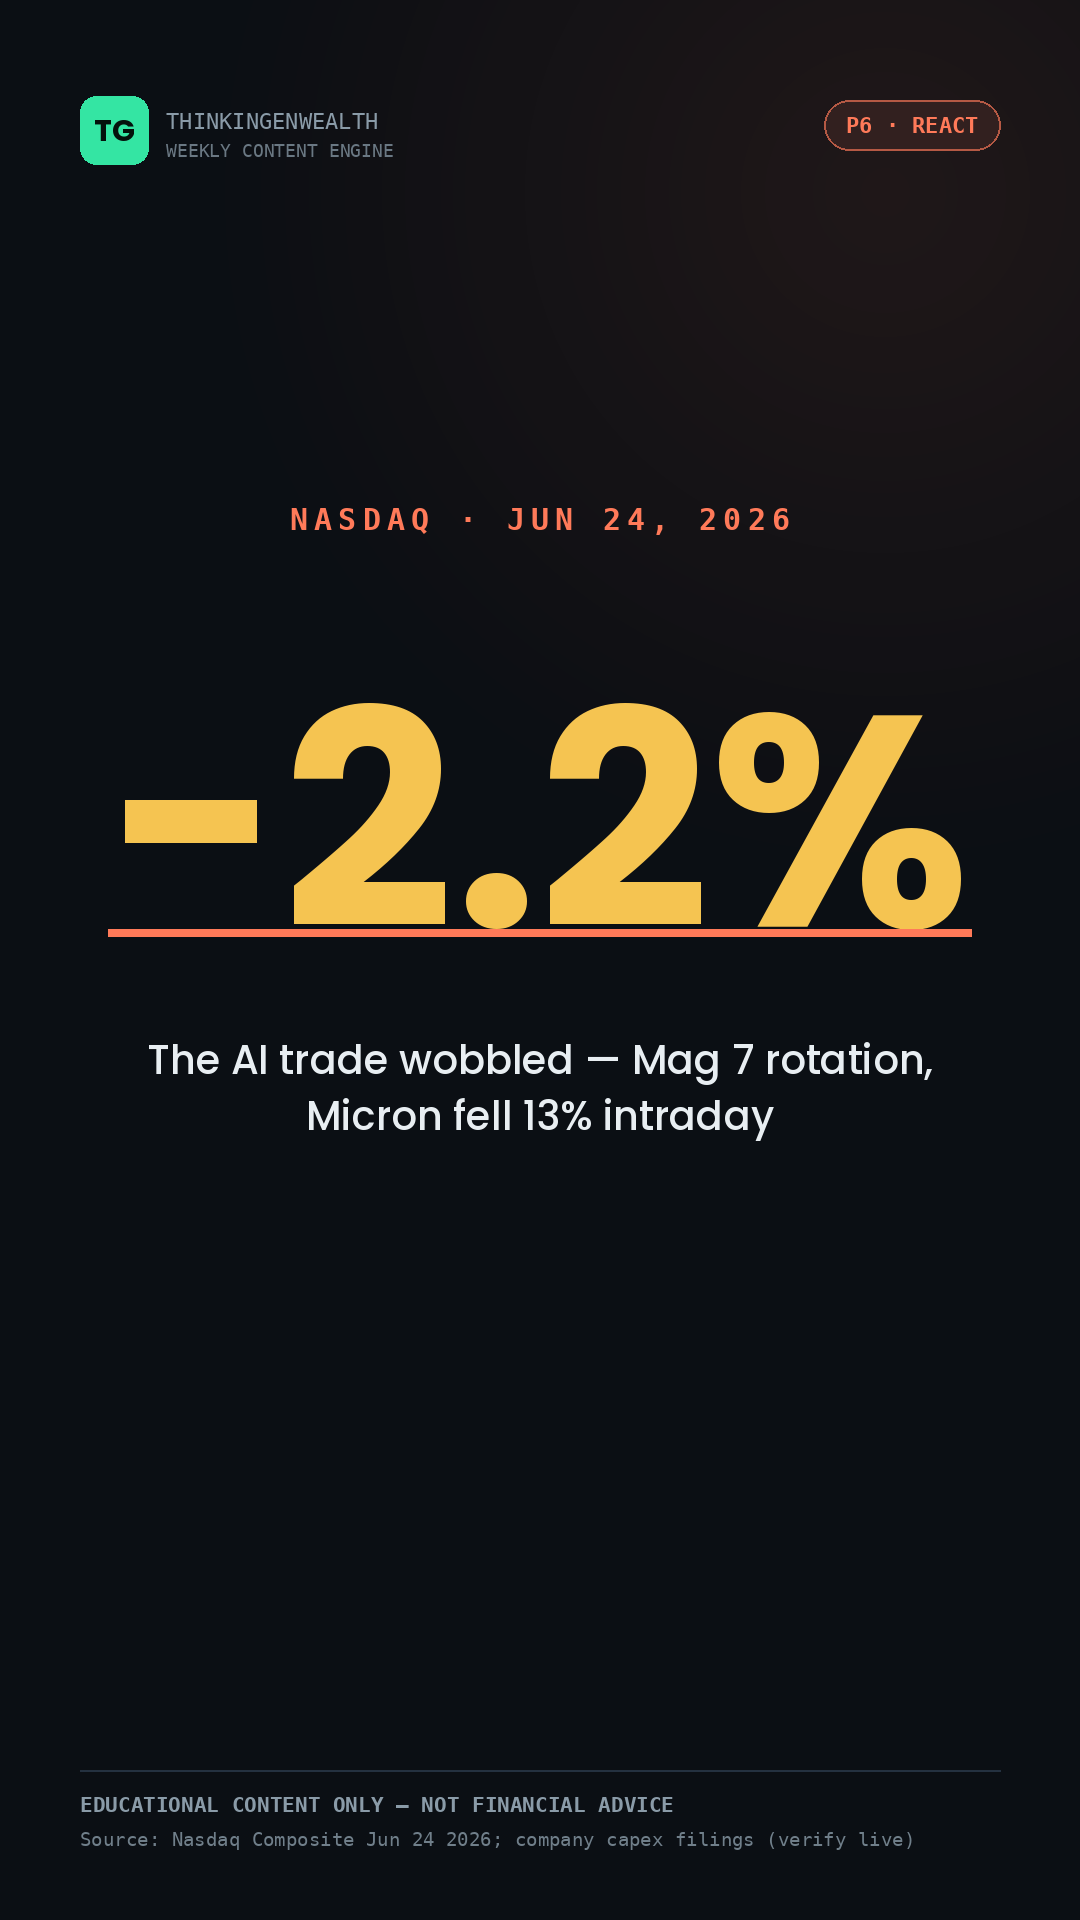
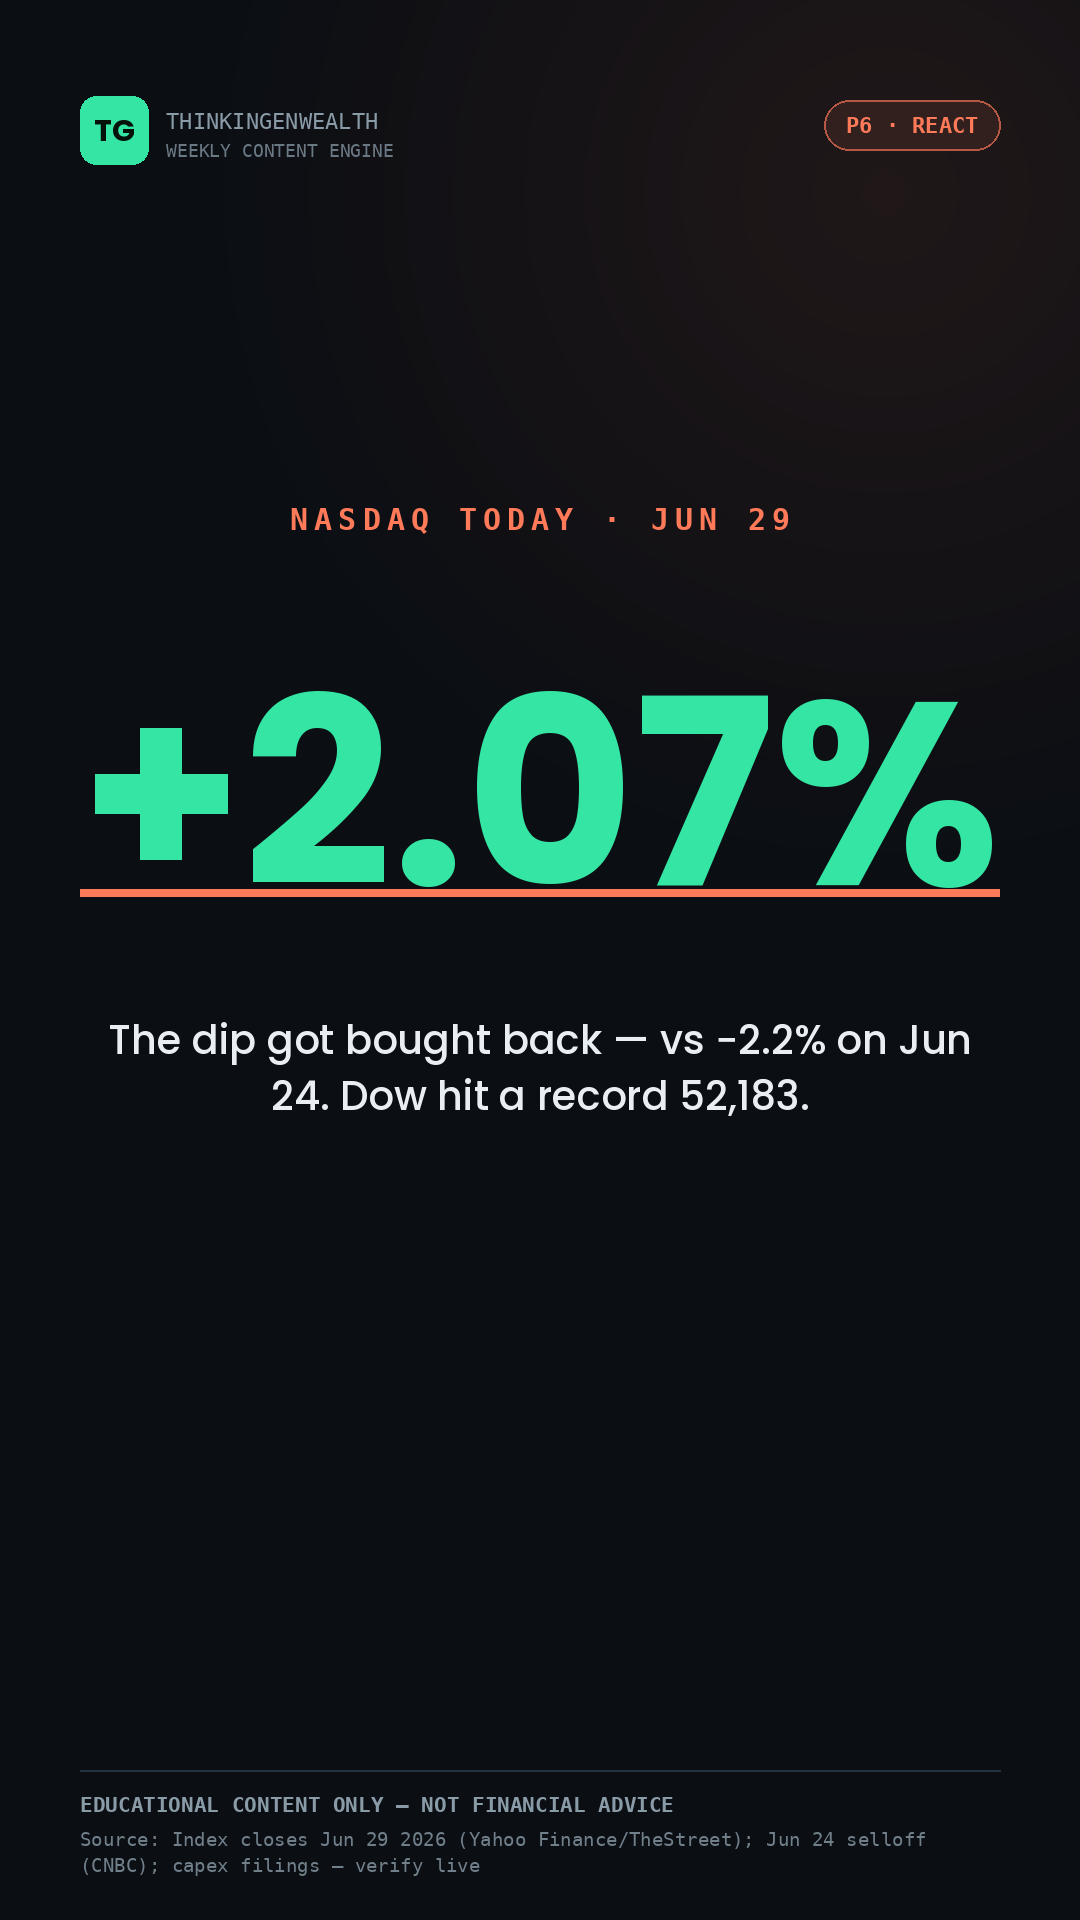
TGW calendar — Jun 29 anchor refresh — AI round-trip (Nasdaq +2%, Dow 52k)

diff --git a/screenshare/ai-selloff-dashboard.html b/screenshare/ai-selloff-dashboard.html
@@ -3,33 +3,36 @@
 <head>
 <meta charset="UTF-8">
 <meta name="viewport" content="width=device-width, initial-scale=1.0">
-<title>TGW · The AI Trade Reality Check — Jun 29</title>
+<title>TGW · The AI Round-Trip — Jun 29</title>
 <link href="https://fonts.googleapis.com/css2?family=Space+Grotesk:wght@500;600;700&family=Inter:wght@400;500;600&family=JetBrains+Mono:wght@500;600&display=swap" rel="stylesheet">
 <style>
   :root{--ink:#0B0F14;--panel:#131A22;--line:#243140;--mint:#34E5A3;--gold:#F5C451;--text:#E8EEF2;--muted:#8A9BA8;--p6:#FF7A59;--p2:#5B9BFF;
     --disp:'Space Grotesk',sans-serif;--body:'Inter',sans-serif;--mono:'JetBrains Mono',monospace;}
   *{box-sizing:border-box;margin:0;padding:0}
-  body{background:var(--ink);color:var(--text);font-family:var(--body);background-image:radial-gradient(1200px 600px at 80% -10%,rgba(255,122,89,.07),transparent 60%);}
+  body{background:var(--ink);color:var(--text);font-family:var(--body);background-image:radial-gradient(1200px 600px at 80% -10%,rgba(52,229,163,.07),transparent 60%);}
   .wrap{max-width:1120px;margin:0 auto;padding:36px 28px 56px}
-  .eyebrow{font-family:var(--mono);font-size:12px;letter-spacing:.18em;color:var(--p6);text-transform:uppercase}
+  .eyebrow{font-family:var(--mono);font-size:12px;letter-spacing:.18em;color:var(--mint);text-transform:uppercase}
   h1{font-family:var(--disp);font-size:34px;font-weight:700;letter-spacing:-.02em;margin:8px 0 6px;line-height:1.12}
-  .sub{color:var(--muted);font-size:15px;max-width:78ch}
-  .kpis{display:grid;grid-template-columns:repeat(3,1fr);gap:14px;margin-top:24px}
-  .kpi{background:var(--panel);border:1px solid var(--line);border-radius:16px;padding:20px}
-  .kpi .lab{font-family:var(--mono);font-size:11px;letter-spacing:.06em;color:var(--muted);text-transform:uppercase}
-  .kpi .now{font-family:var(--disp);font-size:42px;font-weight:700;margin-top:10px;letter-spacing:-.02em}
-  .kpi.red .now{color:var(--p6)} .kpi.gold .now{color:var(--gold)} .kpi.blue .now{color:var(--p2)}
-  .kpi .was{font-size:12.5px;color:var(--muted);margin-top:8px}
+  .sub{color:var(--muted);font-size:15px;max-width:80ch}
+  .asof{margin-top:12px;font-family:var(--mono);font-size:12px;color:var(--gold)}
+  .kpis{display:grid;grid-template-columns:repeat(4,1fr);gap:14px;margin-top:22px}
+  .kpi{background:var(--panel);border:1px solid var(--line);border-radius:16px;padding:18px}
+  .kpi .lab{font-family:var(--mono);font-size:10.5px;letter-spacing:.06em;color:var(--muted);text-transform:uppercase}
+  .kpi .now{font-family:var(--disp);font-size:30px;font-weight:700;margin-top:10px;letter-spacing:-.02em}
+  .kpi.up .now{color:var(--mint)} .kpi.gold .now{color:var(--gold)} .kpi.down .now{color:var(--p6)}
+  .kpi .was{font-size:12px;color:var(--muted);margin-top:8px}
   .grid2{display:grid;grid-template-columns:1.05fr .95fr;gap:18px;margin-top:18px}
   .card{background:var(--panel);border:1px solid var(--line);border-radius:16px;padding:22px}
   .card h2{font-family:var(--disp);font-size:16px;letter-spacing:.02em;margin-bottom:3px}
   .card .cap{font-size:12.5px;color:var(--muted);margin-bottom:16px}
-  .bars{display:grid;gap:12px}
-  .bar{display:grid;grid-template-columns:130px 1fr 70px;align-items:center;gap:12px;font-size:13px}
-  .bar .nm{color:#cdd8e1}
-  .track{height:16px;background:rgba(255,255,255,.05);border-radius:8px;overflow:hidden}
-  .fill{height:100%;border-radius:8px;background:linear-gradient(90deg,var(--p6),#b8472f)}
-  .bar .vv{font-family:var(--mono);font-weight:600;color:var(--p6);text-align:right}
+  .rt{display:grid;gap:12px}
+  .rtrow{display:grid;grid-template-columns:120px 1fr;gap:12px;align-items:center;font-size:13px}
+  .rtrow .nm{color:#cdd8e1;font-family:var(--mono);font-size:12px}
+  .pair{display:flex;align-items:center;gap:10px}
+  .chip{font-family:var(--mono);font-size:12px;font-weight:600;padding:3px 9px;border-radius:6px}
+  .chip.red{color:var(--p6);background:rgba(255,122,89,.1);border:1px solid rgba(255,122,89,.3)}
+  .chip.grn{color:var(--mint);background:rgba(52,229,163,.1);border:1px solid rgba(52,229,163,.3)}
+  .arrow{color:var(--muted);font-family:var(--mono)}
   .split{display:grid;gap:12px}
   .sc{border:1px solid var(--line);border-radius:12px;padding:15px 16px}
   .sc.spend{background:rgba(245,196,81,.06);border-color:rgba(245,196,81,.3)}
@@ -37,71 +40,73 @@
   .sc h3{font-family:var(--disp);font-size:14px;margin-bottom:5px}
   .sc.spend h3{color:var(--gold)} .sc.pay h3{color:var(--mint)}
   .sc p{font-size:13px;color:#cdd8e1;line-height:1.5}
-  .watch{display:grid;gap:2px;margin-top:18px}
+  .watch{display:grid;gap:2px;margin-top:6px}
   .w{display:flex;gap:12px;align-items:baseline;padding:11px 0;border-bottom:1px solid var(--line)}
   .w:last-child{border:none}
-  .w .n{font-family:var(--mono);font-size:13px;color:var(--p6);font-weight:600;width:22px;flex-shrink:0}
+  .w .n{font-family:var(--mono);font-size:13px;color:var(--mint);font-weight:600;width:22px;flex-shrink:0}
   .w .t{font-size:13.5px} .w .t small{display:block;color:var(--muted);font-size:12px;margin-top:2px}
   .bridge{margin-top:18px;background:linear-gradient(120deg,rgba(52,229,163,.07),rgba(91,155,255,.07));border:1px solid var(--line);border-radius:14px;padding:18px}
   .bridge .k{font-family:var(--mono);font-size:11px;color:var(--mint);letter-spacing:.1em;text-transform:uppercase}
   .bridge p{margin-top:7px;font-size:14px;color:#cdd8e1}.bridge b{color:var(--text)}
   .note{margin-top:20px;font-size:12.5px;color:var(--muted);border-top:1px solid var(--line);padding-top:14px;line-height:1.6}
-  @media(max-width:820px){.kpis,.grid2{grid-template-columns:1fr}}
+  @media(max-width:820px){.kpis{grid-template-columns:1fr 1fr}.grid2{grid-template-columns:1fr}}
 </style>
 </head>
 <body>
 <div class="wrap">
   <div class="eyebrow">▶ Screen-share · Flagship · P6 · News/React</div>
-  <h1>The AI Trade Just Got a Reality Check</h1>
-  <p class="sub">Wall Street spent two years rewarding AI <i>spending</i>. Late June it started demanding the <i>payoff</i> — and the Mag 7 wobbled. This is the anchor: not "AI is dead," but "show me the return on $452B." Re-verify all figures live before recording.</p>
+  <h1>The AI Trade: Sold Off Last Week — Bought Right Back Today</h1>
+  <p class="sub">A clean round-trip. Wall Street spent last week demanding the payoff on ~$452B of AI capex and dumped the Mag 7. Today the dip got bought hard: tech roared back, the Dow hit a record, and Alphabet led. The lesson isn't "AI is dead" or "AI is back" — it's how fast the market re-rates the same companies on sentiment.</p>
+  <div class="asof">As of the close, Mon Jun 29, 2026 · re-verify any figure before recording</div>
 
   <div class="kpis">
-    <div class="kpi red"><div class="lab">Nasdaq · Jun 24, 2026</div><div class="now">−2.2%</div><div class="was">Tech-led down day; S&P −1.4% · Micron −13% intraday before rebound</div></div>
-    <div class="kpi gold"><div class="lab">2026 AI capex (combined)</div><div class="now">$452B</div><div class="was">Microsoft + Alphabet + Amazon + Meta — the number spooking institutions</div></div>
-    <div class="kpi blue"><div class="lab">What changed</div><div class="now">Spend → ROI</div><div class="was">Market shifted from rewarding capex to pricing the return on it</div></div>
+    <div class="kpi up"><div class="lab">Nasdaq · today</div><div class="now">+2.07%</div><div class="was">Close 25,820 · vs −2.2% on Jun 24</div></div>
+    <div class="kpi gold"><div class="lab">Dow · today</div><div class="now">52,183</div><div class="was">+0.59% · first close above 52,000</div></div>
+    <div class="kpi up"><div class="lab">S&amp;P 500 · today</div><div class="now">+1.18%</div><div class="was">Close 7,440</div></div>
+    <div class="kpi gold"><div class="lab">2026 AI capex</div><div class="now">$452B</div><div class="was">The 'why' behind the whole round-trip</div></div>
   </div>
 
   <div class="grid2">
     <div class="card">
-      <h2>The two-day move</h2>
-      <p class="cap">Single-name drawdowns that drove the rotation out of the Mag 7 (verify before citing)</p>
-      <div class="bars">
-        <div class="bar"><span class="nm">Micron</span><div class="track"><div class="fill" style="width:100%"></div></div><span class="vv">−13%</span></div>
-        <div class="bar"><span class="nm">Alphabet</span><div class="track"><div class="fill" style="width:62%"></div></div><span class="vv">−6 to −10%</span></div>
-        <div class="bar"><span class="nm">Amazon</span><div class="track"><div class="fill" style="width:31%"></div></div><span class="vv">−4%</span></div>
-        <div class="bar"><span class="nm">Nasdaq</span><div class="track"><div class="fill" style="width:17%"></div></div><span class="vv">−2.2%</span></div>
-        <div class="bar"><span class="nm">S&amp;P 500</span><div class="track"><div class="fill" style="width:11%"></div></div><span class="vv">−1.4%</span></div>
+      <h2>The round-trip — sold off, bought back</h2>
+      <p class="cap">Same names, opposite week (verify before citing)</p>
+      <div class="rt">
+        <div class="rtrow"><span class="nm">Nasdaq</span><div class="pair"><span class="chip red">−2.2% Jun 24</span><span class="arrow">→</span><span class="chip grn">+2.07% Jun 29</span></div></div>
+        <div class="rtrow"><span class="nm">Alphabet</span><div class="pair"><span class="chip red">−6 to −10%</span><span class="arrow">→</span><span class="chip grn">+4% today</span></div></div>
+        <div class="rtrow"><span class="nm">AI names</span><div class="pair"><span class="chip red">led the selloff</span><span class="arrow">→</span><span class="chip grn">NVDA/INTC/MSFT/AMZN/META ~+2%</span></div></div>
+        <div class="rtrow"><span class="nm">Dow</span><div class="pair"><span class="chip grn">record 52,183</span></div></div>
       </div>
       <div class="watch">
-        <div class="w"><span class="n">›</span><span class="t">Global echo<small>South Korea's Kospi closed −10% the same week — the AI supply chain runs through Asian chipmakers</small></span></div>
+        <div class="w"><span class="n">›</span><span class="t">Alphabet joined the Dow today<small>Added to the blue-chip index Jun 29 and rose 4%+ — a structural nod to Big Tech's weight</small></span></div>
+        <div class="w"><span class="n">›</span><span class="t">Fed independence affirmed<small>Supreme Court ruled 5-4 to keep Fed governor Lisa Cook for now — removed an overhang on rate-policy credibility</small></span></div>
       </div>
     </div>
     <div class="card">
-      <h2>Spending vs payoff — the real story</h2>
-      <p class="cap">Why this is a re-rating, not a collapse</p>
+      <h2>Spending vs payoff — still the real story</h2>
+      <p class="cap">Why the tape whipsaws both ways</p>
       <div class="split">
-        <div class="sc spend"><h3>The spend</h3><p>$452B of 2026 capex across four firms — data centers, chips, power. The bet: AI will pay it back many times over.</p></div>
-        <div class="sc pay"><h3>The payoff question</h3><p>Investors now want evidence — revenue, margins, free cash flow — not just bigger capex. Unlike dot-com, these companies are profitable today; the debate is the <i>timeline</i>.</p></div>
+        <div class="sc spend"><h3>The spend</h3><p>~$452B of 2026 capex across Microsoft, Alphabet, Amazon and Meta — data centers, chips, power.</p></div>
+        <div class="sc pay"><h3>The payoff question</h3><p>Last week the market wanted proof; today it gave the benefit of the doubt. Unlike dot-com, these firms are profitable — so sentiment, not solvency, is driving the swings. Watch free cash flow, not the daily candle.</p></div>
       </div>
     </div>
   </div>
 
   <div class="card" style="margin-top:18px">
     <h2>What to watch this week</h2>
-    <p class="cap">The thread that ties the anchor to the rest of the week</p>
+    <p class="cap">The thread from today's bounce into the rest of the week</p>
     <div class="watch">
-      <div class="w"><span class="n">1</span><span class="t">Does the dip hold or roll over?<small>Wednesday's chart lesson — 3 signals that tell a dip from a top (P1 evergreen)</small></span></div>
-      <div class="w"><span class="n">2</span><span class="t">June jobs report — Thu Jul 2, 8:30am ET<small>A strong number keeps the Fed hawkish (dot median 3.8%); a weak one revives cut hopes. Markets closed Fri Jul 3</small></span></div>
-      <div class="w"><span class="n">3</span><span class="t">Free cash flow, not headlines<small>The metric that actually answers "is the AI spend working?"</small></span></div>
+      <div class="w"><span class="n">1</span><span class="t">Does the bounce hold or fade?<small>Wednesday's chart lesson — 3 signals that tell a dip-buy from a dead-cat bounce (P1 evergreen)</small></span></div>
+      <div class="w"><span class="n">2</span><span class="t">June jobs report — Thu Jul 2, 8:30am ET<small>Strong = Fed stays hawkish (dot median 3.8%); weak = cut hopes return. Markets closed Fri Jul 3</small></span></div>
+      <div class="w"><span class="n">3</span><span class="t">Free cash flow, not headlines<small>The metric that actually answers "is the AI spend working?" — through both the selloff and the snap-back</small></span></div>
     </div>
   </div>
 
   <div class="bridge">
     <span class="k">◆ The bridge — say it every week</span>
-    <p>You don't need to call the AI top to win. <b>Fix your credit → get approved for funding → open a brokerage → then deploy capital</b> into a basket you understand. Ownership beats timing.</p>
+    <p>A week like this — down 2%, up 2% — is exactly why timing loses. <b>Fix your credit → get approved for funding → open a brokerage → then deploy capital</b> into a basket you understand, on a schedule. Ownership beats reacting.</p>
   </div>
 
-  <div class="note">Sources: Nasdaq/S&amp;P index moves Jun 24, 2026 (CNBC, CNN, TheStreet); combined Mag-7 2026 capex (company filings/press, ~$452B). Figures are a snapshot — re-verify live before recording. Educational content only — not financial advice; no specific trade recommendations or price predictions.</div>
+  <div class="note">Sources: index closes Jun 29, 2026 — Nasdaq +2.07% (25,820), Dow +0.59% (52,182.74), S&amp;P 500 +1.18% (7,440.43); Alphabet joined the Dow and rose 4%+ (Yahoo Finance, TheStreet, Invezz). Last week's selloff: Nasdaq −2.2% Jun 24 (CNBC/CNN). Combined Mag-7 2026 capex ~$452B (filings). SCOTUS 5-4 kept Fed gov. Lisa Cook, Jun 29 (NPR, Bloomberg, CNBC). Figures are a snapshot — re-verify live before recording. Educational content only — not financial advice; no specific trade recommendations or price predictions.</div>
 </div>
 </body>
 </html>

diff --git a/index.html b/index.html
@@ -151,7 +151,7 @@
     <div class="weekchip">
       <div class="lbl">This Week</div>
       <div class="rng">Jun 29 – Jul 5, 2026</div>
-      <div class="sub">Recorded Sun Jun 28 · the AI selloff + jobs week</div>
+      <div class="sub">Anchor recorded Mon Jun 29 · the AI round-trip + jobs week</div>
     </div>
   </header>
 
@@ -198,15 +198,15 @@
 
   <div class="bridge" style="margin-top:0">
     <span class="k">◆ This week's live pegs</span>
-    <p>The big story in our lane: <b>the AI trade got a reality check.</b> Nasdaq fell <b>2.2% Jun 24</b> as Wall Street rotated out of the Mag 7 — investors now want proof the <b>~$452B</b> of 2026 AI capex (Microsoft + Alphabet + Amazon + Meta) will actually pay off. Mid-week marquee: <b>June jobs report drops Thu Jul 2, 8:30am ET</b> (moved up a day — July 4 is Saturday, so the <b>market is closed Fri Jul 3</b>); prior print was +172K / 4.3% unemployment / +3.4% wages. Backdrop: the <b>Fed held Jun 17</b> (Warsh's first meeting) and the dot median sits at <b>3.8%</b> — a hike is still more likely than a cut. <span style="color:var(--muted)">Sources: cnbc.com · bls.gov · federalreserve.gov · nyse.com</span></p>
+    <p>The big story in our lane: <b>the AI trade did a round-trip.</b> Nasdaq fell <b>2.2% Jun 24</b> as Wall Street dumped the Mag 7 over the <b>~$452B</b> of 2026 AI capex (Microsoft + Alphabet + Amazon + Meta) — then <b>today (Jun 29) the dip got bought right back: Nasdaq +2.07%, Dow a record 52,183, S&amp;P +1.18%</b>, with Alphabet +4% (and joining the Dow). Also today: <b>SCOTUS kept Fed gov. Lisa Cook</b> (5-4), affirming Fed independence. Mid-week marquee: <b>June jobs report drops Thu Jul 2, 8:30am ET</b> (moved up — July 4 is Saturday, so the <b>market is closed Fri Jul 3</b>); prior print +172K / 4.3% / +3.4% wages. Backdrop: Fed dot median <b>3.8%</b> — a hike still likelier than a cut. <span style="color:var(--muted)">Sources: yahoo finance · thestreet · cnbc · bls.gov · federalreserve.gov</span></p>
   </div>
 
   <h2 class="sec">Recorded Sunday — now rolling out <span style="font-family:var(--mono);font-size:10px;color:var(--muted);font-weight:400;letter-spacing:.06em;text-transform:none;margin-left:4px">flagship posts Mon · trading ep banked for Sun Jul 5</span></h2>
   <div class="anchor">
-    <span class="tag">▶ Flagship · drops Mon Jun 29 · P6 · NEWS/REACT</span>
-    <h3>The AI Trade Just Got a Reality Check: $452B Spent — Where's the Payoff?</h3>
-    <p class="why">The concrete market-event reaction — exactly the lane that just hit 21.8K on IG. The scary red day is the cold open; the real story is the shift from rewarding AI <i>spending</i> to demanding the <i>return</i> on it. Not "AI is dead" — "show me the cash flow." Screen-share: <b>ai-selloff-dashboard.html</b>.</p>
-    <div class="when">▶ <b>YouTube long-form goes live Monday AM ET</b> — lead the week while the selloff is fresh and before Thursday's jobs print resets the tape. Numbers dated to Sunday; don't sit on it.</div>
+    <span class="tag">▶ Flagship · recorded + drops Mon Jun 29 · P6 · NEWS/REACT</span>
+    <h3>The AI Dip Got Bought: Nasdaq +2%, Dow Tops 52,000 — Is the Reality Check Over?</h3>
+    <p class="why">A clean round-trip: last week Wall Street demanded the AI payoff and sold the Mag 7 (Nasdaq −2.2% Jun 24); <b>today the dip got bought right back</b> — Nasdaq +2.07%, Dow to a record 52,183, Alphabet +4% (and it joined the Dow). The lane that just hit 21.8K on IG ("Buy the dip?"). The point isn't "AI's dead" or "AI's back" — it's how fast sentiment re-rates the same $452B-capex names. Screen-share: <b>ai-selloff-dashboard.html</b> (round-trip view).</p>
+    <div class="when">▶ <b>Recorded today (Mon Jun 29) with the closing numbers</b> — YouTube long-form goes live this evening / Tue AM ET while the bounce is the story and before Thursday's jobs print. Figures are as of today's close; verify before posting.</div>
   </div>
   <div class="anchor" style="margin-top:14px">
     <span class="tag" style="color:var(--p1);background:rgba(52,229,163,.1);border-color:rgba(52,229,163,.25)">● Evergreen co-ep · banked → drops Sun Jul 5 · P1 · TRADE</span>
@@ -217,23 +217,23 @@
 
   <h2 class="sec">This week's podcast <span style="font-family:var(--mono);font-size:10px;color:var(--muted);font-weight:400;letter-spacing:.06em;text-transform:none;margin-left:4px">the anchor long-form · segment rundown + screen-shares</span></h2>
   <div class="anchor" style="padding-bottom:18px">
-    <span class="tag">🎙 Podcast = Sunday anchor · Wolf + D Waugh · ~12–15 min</span>
-    <h3 style="font-size:21px">The AI Trade Just Got a Reality Check: $452B Spent — Where's the Payoff?</h3>
-    <p class="why">Not "AI is dead" — Wall Street stopped paying for spending and started demanding the return on it. <b style="color:var(--gold)">Screen-shares:</b> <a href="screenshare/ai-selloff-dashboard.html" target="_blank" style="color:var(--mint)">ai-selloff-dashboard.html</a> (main) · <a href="screenshare/jobs-report-dashboard.html" target="_blank" style="color:var(--mint)">jobs-report-dashboard.html</a> (week-ahead segment).</p>
-    <details class="script" style="position:relative;z-index:1"><summary>Full segment rundown — talking points + screen-share cues</summary><div class="scriptbody">
+    <span class="tag">🎙 Podcast = Sunday anchor · recorded Mon Jun 29 · Wolf + D Waugh · ~12–15 min</span>
+    <h3 style="font-size:21px">The AI Dip Got Bought: Nasdaq +2%, Dow Tops 52,000 — Is the Reality Check Over?</h3>
+    <p class="why">Last week they sold the AI trade; today they bought the dip right back and the Dow hit a record. The round-trip is the story. <b style="color:var(--gold)">Screen-shares:</b> <a href="screenshare/ai-selloff-dashboard.html" target="_blank" style="color:var(--mint)">ai-selloff-dashboard.html</a> (round-trip view) · <a href="screenshare/jobs-report-dashboard.html" target="_blank" style="color:var(--mint)">jobs-report-dashboard.html</a> (week-ahead segment). <b style="color:var(--gold)">Figures as of the Jun 29 close — verify before recording.</b></p>
+    <details class="script" style="position:relative;z-index:1"><summary>Full segment rundown — talking points + screen-share cues · refreshed Jun 29</summary><div class="scriptbody">
       <span class="lbl">Cold open · 0:00–0:45</span>
-      <ul><li>Hook: "Wall Street just stopped clapping for AI spending — the Nasdaq dropped 2.2% in a day."</li><li>Tease the 3 beats: what happened → the $452B question → bubble or not → what it means for you.</li><li>🖥️ Screen-share ai-selloff-dashboard.html (KPIs on screen).</li></ul>
-      <h5>Segment 1 — The wobble (0:45–3:30)</h5>
-      <ul><li>Nasdaq −2.2%, S&amp;P −1.4% Jun 24; Micron −13% intraday; Alphabet −6 to −10%; Kospi −10% (verify live).</li><li>Frame: rotation OUT of the Mag 7, not a market-wide crash.</li><li>🖥️ "Two-day move" chart · ✏️ circle Nasdaq −2.2% &amp; Micron −13%.</li></ul>
-      <h5>Segment 2 — The $452B question (3:30–7:00)</h5>
-      <ul><li>~$452B combined 2026 AI capex (Microsoft + Alphabet + Amazon + Meta).</li><li>The shift: from rewarding spending to pricing the return. "Show me the cash flow."</li><li>🖥️ "Spending vs payoff" card · 🔄 tab back to KPIs to land $452B.</li></ul>
-      <h5>Segment 3 — Is this dot-com again? (7:00–10:00)</h5>
-      <ul><li>The bubble take (sets up Tue's reaction reel): "AI is dot-com 2.0."</li><li>Right: valuations price years of growth. Off: dot-com firms had no revenue; Mag 7 are profitable today — the debate is the timeline. Profits vs promises.</li></ul>
-      <h5>Segment 4 — What it means for you + week ahead (10:00–13:00)</h5>
-      <ul><li>Control what you can: a plan, DCA, a basket you understand.</li><li>June jobs Thu Jul 2, 8:30am ET — strong = Fed stays hawkish (dot 3.8%); weak = cut hopes return. Markets closed Fri Jul 3.</li><li>🖥️ Screen-share jobs-report-dashboard.html (scenarios card).</li></ul>
-      <h5>Outro (13:00–end)</h5>
-      <ul><li>3 takeaways: re-rating not collapse · watch free cash flow not headlines · ownership beats timing.</li><li class="cta-line">Bridge: "Fix credit → get funding → open a brokerage → deploy." · Discord push · like/subscribe · tease Thu jobs + Sun "Dip or Top?".</li></ul>
-      <div class="cap-box">Resources to cite: Nasdaq/S&amp;P moves Jun 24 (CNBC/CNN/TheStreet) · ~$452B Mag-7 2026 capex (filings) · Kospi −10% · June jobs (BLS, Jul 2; prior +172K/4.3%/+3.4%) · Fed dot median 3.8% (federalreserve.gov). Full rundown: scripts/podcast-rundown.md. Re-verify all figures live.</div>
+      <ul><li>Hook: "Last week everyone said the AI trade was breaking. Today the Nasdaq jumped 2% and the Dow hit a record. So which is it?"</li><li>Tease the 4 beats: the round-trip → the $452B question → what today's bounce means → what to watch (jobs Thu).</li><li>🖥️ Screen-share ai-selloff-dashboard.html (round-trip KPIs on screen).</li></ul>
+      <h5>Segment 1 — The round-trip (0:45–3:30)</h5>
+      <ul><li>Last week: Nasdaq −2.2% (Jun 24), Mag 7 dumped, Alphabet −6 to −10%, Kospi −10%.</li><li>Today: Nasdaq +2.07% (25,820) · Dow +0.59% to a record 52,183 · S&amp;P +1.18% (7,440); Alphabet +4% and joined the Dow; AI names ~+2% (verify live).</li><li>Frame: same companies, opposite week — sentiment, not fundamentals. ✏️ circle −2.2% → +2.07%.</li></ul>
+      <h5>Segment 2 — The $452B question (3:30–6:30)</h5>
+      <ul><li>~$452B combined 2026 AI capex (Microsoft + Alphabet + Amazon + Meta) — the number that started it.</li><li>Last week the market wanted proof; today it gave the benefit of the doubt. The debate didn't resolve — sentiment flipped.</li><li>🖥️ "Spending vs payoff" card.</li></ul>
+      <h5>Segment 3 — Two things that helped today (6:30–9:30)</h5>
+      <ul><li>Alphabet joined the Dow (Jun 29) and led — a structural nod to Big Tech's weight.</li><li>Fed independence: SCOTUS ruled 5-4 to keep Fed gov. Lisa Cook for now — lifted a rate-policy overhang. Keep it factual, not political.</li><li>Ties to Tue's "dot-com 2.0?" reaction reel — today's bounce is the counter-argument.</li></ul>
+      <h5>Segment 4 — What it means for you + week ahead (9:30–12:30)</h5>
+      <ul><li>Down 2%, up 2% in a week is exactly why timing loses. Control what you can: a plan, DCA, a basket you understand.</li><li>June jobs Thu Jul 2, 8:30am ET — strong = Fed stays hawkish (dot 3.8%); weak = cut hopes return. Markets closed Fri Jul 3.</li><li>🖥️ Screen-share jobs-report-dashboard.html (scenarios card).</li></ul>
+      <h5>Outro (12:30–end)</h5>
+      <ul><li>3 takeaways: sentiment re-rating not a broken model · watch free cash flow not the daily candle · ownership beats reacting.</li><li class="cta-line">Bridge: "Fix credit → get funding → open a brokerage → deploy." · Discord push · like/subscribe · tease Thu jobs + Sun "Dip or Top?".</li></ul>
+      <div class="cap-box">Resources to cite (refreshed Jun 29): today's closes — Nasdaq +2.07%/25,820, Dow +0.59%/52,182.74, S&amp;P +1.18%/7,440.43; Alphabet joined Dow +4% (Yahoo Finance/TheStreet/Invezz) · last week's selloff Nasdaq −2.2% Jun 24 (CNBC/CNN) · ~$452B Mag-7 capex (filings) · SCOTUS keeps Lisa Cook 5-4 (NPR/Bloomberg/CNBC) · June jobs Thu Jul 2 (BLS; prior +172K/4.3%/+3.4%). Full rundown: scripts/podcast-rundown.md. Re-verify all figures live.</div>
     </div></details>
   </div>
 
@@ -245,40 +245,40 @@
       <div class="dayhead">
         <div class="dow">MON<small>JUN 29</small></div>
         <span class="pill" style="background:rgba(255,122,89,.12);color:var(--p6)">P6 · React</span>
-        <span class="hook">Flagship — the AI trade got a reality check</span>
+        <span class="hook">Flagship — the AI dip got bought (Nasdaq +2%, Dow record)</span>
         <span class="fmt">Long-form + Short</span>
         <span class="chev">▶</span>
       </div>
       <div class="daybody"><div class="daybody-in">
-        <div class="beats">Lead the week — news peg decays</div>
+        <div class="beats">Lead the week — recorded today with the closing numbers</div>
         <div class="beats-list">
-          <div>YouTube long-form (the AI-selloff flagship) goes live.</div>
-          <div>TikTok clip pulls the "$452B spent, where's the payoff?" moment → points to the full breakdown.</div>
-          <div>Short #1 answers "Is the AI bubble popping?" → "full breakdown on the channel."</div>
-          <div>IG Reel: the selloff reaction clip — our top IG pillar (this format just hit 21.8K).</div>
+          <div>YouTube long-form (the AI round-trip flagship) goes live tonight / Tue AM.</div>
+          <div>TikTok clip pulls the "down 2%, up 2% — same week" moment → points to the full breakdown.</div>
+          <div>Short #1 answers "Is the AI reality check over?" → "full breakdown on the channel."</div>
+          <div>IG Reel: the dip-got-bought reaction clip — our top IG pillar (this format just hit 21.8K).</div>
         </div>
         <div class="drops">Drops today</div>
         <div class="platrow"><span class="plat yt">▶ YT long-form</span><span class="plat short">YT Short #1</span><span class="plat tt">TikTok clip</span><span class="plat ig">IG Reel</span><span class="plat comm">Community poll</span></div>
         <div class="win">⏱ <b>Window:</b> long-form <b>AM ET</b> so it indexes before the evening surge · Short + TikTok + Reel into your evening peak · <b>post early</b> — the selloff is freshest now.</div>
         <div class="hooks">
           <span class="k">▶ Green-screen hooks · Atlas style</span>
-          <div class="cold">Cold-open: "Wall Street stopped clapping."</div>
-          <div class="sus">Sustained caption: <b>"$452B Spent on AI. Wall Street Wants the Payoff Now."</b></div>
+          <div class="cold">Cold-open: "Down 2%. Then up 2%."</div>
+          <div class="sus">Sustained caption: <b>"AI Sold Off Last Week. The Dip Got Bought Today."</b></div>
           <div class="gsgrid">
-            <a class="gsthumb" href="greenscreen/MON/MON_01_selloff.png" target="_blank"><img src="greenscreen/MON/MON_01_selloff.png" alt="selloff"><span class="cap">01 · Nasdaq −2.2%</span></a>
+            <a class="gsthumb" href="greenscreen/MON/MON_01_selloff.png" target="_blank"><img src="greenscreen/MON/MON_01_selloff.png" alt="rebound"><span class="cap">01 · Nasdaq +2.07%</span></a>
             <a class="gsthumb" href="greenscreen/MON/MON_02_capex.png" target="_blank"><img src="greenscreen/MON/MON_02_capex.png" alt="capex"><span class="cap">02 · $452B capex</span></a>
-            <a class="gsthumb" href="greenscreen/MON/MON_03_shift.png" target="_blank"><img src="greenscreen/MON/MON_03_shift.png" alt="shift"><span class="cap">03 · Spend→payoff</span></a>
+            <a class="gsthumb" href="greenscreen/MON/MON_03_shift.png" target="_blank"><img src="greenscreen/MON/MON_03_shift.png" alt="sentiment"><span class="cap">03 · Sentiment</span></a>
             <a class="gsthumb" href="greenscreen/MON/MON_clip.mp4" target="_blank"><video src="greenscreen/MON/MON_clip.mp4" muted loop playsinline preload="metadata" onmouseover="this.play()" onmouseout="this.pause()"></video><span class="vbadge">CLIP</span><span class="cap">Motion</span></a>
           </div>
-          <div class="gsnote">Cut 01 → 02 → 03 as you hit each point. Optional: screenshot a Jun 24 market-red headline as a 4th bg (we can't pull copyrighted images). Hover the clip to preview · tap any tile for full size.</div>
+          <div class="gsnote">Cut 01 → 02 → 03 as you hit each point. Optional: screenshot today's green-market / Dow-52,000 headline as a 4th bg (we can't pull copyrighted images). Hover the clip to preview · tap any tile for full size.</div>
         </div>
-        <details class="script"><summary>Full script — talking points</summary><div class="scriptbody">
-          <span class="lbl">Selected hook</span>"Wall Street just stopped clapping for AI spending. The Nasdaq fell 2.2% in a day — here's what actually changed."
-          <h5>Point 1 — The wobble</h5><ul><li>Nasdaq −2.2%, S&amp;P −1.4% on Jun 24; Micron −13% intraday, Alphabet down 6–10% over two sessions (verify live). South Korea's Kospi closed −10% the same week.</li></ul>
-          <h5>Point 2 — The real number</h5><ul><li>Combined 2026 AI capex across Microsoft, Alphabet, Amazon and Meta is ~$452B. That's the figure spooking institutions.</li></ul>
-          <h5>Point 3 — What changed</h5><ul><li>The market shifted from rewarding AI <i>spending</i> to demanding the <i>payoff</i>. Unlike dot-com, these firms are profitable — the debate is the timeline, not the business. Watch free cash flow, not headlines.</li></ul>
+        <details class="script"><summary>Full script — talking points · refreshed Jun 29 close</summary><div class="scriptbody">
+          <span class="lbl">Selected hook</span>"Last week everyone said the AI trade was breaking. Today the Nasdaq jumped 2% and the Dow hit a record. Here's what the round-trip actually tells you."
+          <h5>Point 1 — The round-trip</h5><ul><li>Last week: Nasdaq −2.2% (Jun 24), Mag 7 dumped, Alphabet −6 to −10%, Kospi −10%. Today: Nasdaq +2.07% (25,820), Dow +0.59% to a record 52,183, S&amp;P +1.18% (7,440). Alphabet +4% and it joined the Dow. (Verify live.)</li></ul>
+          <h5>Point 2 — The $452B that started it</h5><ul><li>Combined 2026 AI capex across Microsoft, Alphabet, Amazon and Meta is ~$452B. Last week the market wanted proof of payoff; today it gave the benefit of the doubt. Same debate, flipped sentiment.</li></ul>
+          <h5>Point 3 — What it means</h5><ul><li>Down 2%, up 2% in a week is sentiment, not solvency — these firms are profitable, not dot-com. Watch free cash flow, not the daily candle. Also today: SCOTUS kept Fed gov. Lisa Cook (Fed-independence overhang lifted).</li></ul>
           <h5>Close + CTA</h5><ul><li class="cta-line">"Full breakdown on the channel. Comment AI for the Mag-7 capex tracker."</li></ul>
-          <div class="cap-box">Caption: The AI trade got a reality check — $452B spent, and Wall Street finally wants the payoff. Here's the real story. 📊 #AI #stocks #investing #stockmarket</div>
+          <div class="cap-box">Caption: The AI dip got bought right back — Nasdaq +2%, Dow tops 52,000. Here's what the round-trip really tells you. 📊 #AI #stocks #investing #stockmarket</div>
         </div></details>
         <div class="ctarow">
           <span class="cta">Comment-trigger · "Comment <b>AI</b> for the Mag-7 capex tracker."</span>
@@ -548,11 +548,11 @@
   <h2 class="sec">Live news pegs feeding this week</h2>
   <div class="pegs">
     <div class="pegcard">
-      <h4><span class="dot" style="background:var(--p6)"></span>The AI reality check</h4>
+      <h4><span class="dot" style="background:var(--p6)"></span>The AI round-trip</h4>
       <ul>
-        <li><b>Nasdaq −2.2% · S&amp;P −1.4%</b> on Jun 24 — rotation out of the Mag 7 (verify live).</li>
-        <li><b>~$452B</b> combined 2026 AI capex (Microsoft + Alphabet + Amazon + Meta) — the number spooking institutions.</li>
-        <li><b>Spend → payoff</b> — the market wants ROI, not bigger budgets. Kospi closed −10% the same week.</li>
+        <li><b>Sold off then bought back:</b> Nasdaq −2.2% Jun 24 → <b>+2.07% today</b> (25,820); Dow record <b>52,183</b>; S&amp;P +1.18%.</li>
+        <li><b>~$452B</b> combined 2026 AI capex (MSFT+GOOGL+AMZN+META) — the 'why' behind both moves.</li>
+        <li><b>Alphabet +4%</b> and joined the Dow today · <b>SCOTUS kept Fed gov. Lisa Cook</b> (5-4), Fed independence affirmed.</li>
       </ul>
     </div>
     <div class="pegcard">
@@ -646,7 +646,7 @@
 
   <footer>
     <b>TGW Weekly Content Engine · Jun 29 – Jul 5</b> · recorded Sun Jun 28, rolling out on schedule<br>
-    AI-selloff flagship Mon · collab/reaction Tue · trade-evergreen Wed · jobs reach-spike Thu Jul 2 · credit Fri · July-4 mindset Sat · trading ep banked for Sun<br>
+    AI round-trip flagship Mon · collab/reaction Tue · trade-evergreen Wed · jobs reach-spike Thu Jul 2 · credit Fri · July-4 mindset Sat · trading ep banked for Sun<br>
     <span style="color:var(--muted)">Every published asset carries the "educational content only — not financial advice" disclaimer.</span>
   </footer>
 